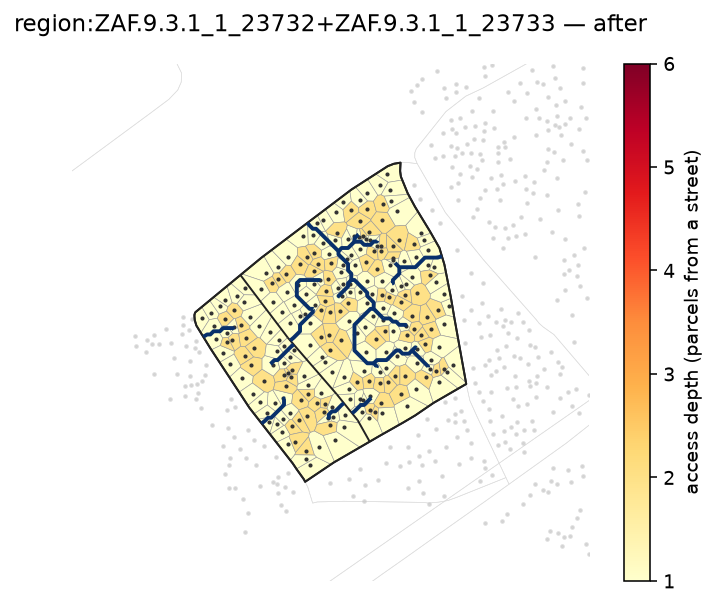
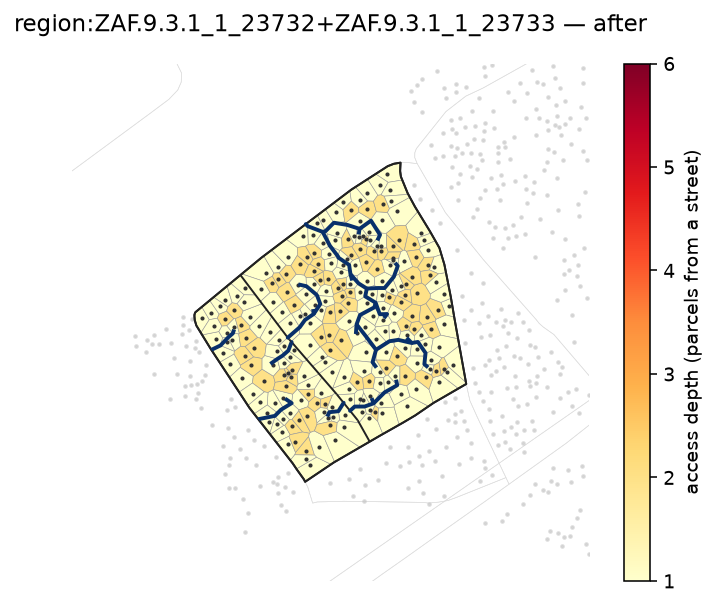
docs: regenerate clearance-repulsion gallery under chord_diag + 3-point default
Claude-Session: https://claude.ai/code/session_0125mCca6BQaTXiLZPMyFa8x

Changed region(s): [[0.3687, 0.3262, 0.6145, 0.7117], [0.2765, 0.5338, 0.338, 0.5931]]

diff --git a/examples/clearance-repulsion/README.md b/examples/clearance-repulsion/README.md
@@ -1,7 +1,8 @@
 # Clearance reblocker: one knob, one region, five repulsions
 
 `ClearanceReblocker` grows each new road as a least-cost path from the deepest remaining parcel
-to the existing street network on an 8-connected grid. The cost field blends a uniform term with
+to the existing street network on a pluggable routing substrate (`chord_diag` by default — the
+parcel-boundary graph plus all within-cell diagonals). The cost field blends a uniform term with
 a repulsion-from-buildings term:
 
 ```
@@ -70,17 +71,18 @@ a minute end-to-end for one small region.
 |---|---|---|---|---|---|
 | ![before](before.png) | ![s=-6](after_s-6.png) | ![s=-2](after_s-2.png) | ![s=0](after_s0.png) | ![s=+2](after_s+2.png) | ![s=+6](after_s+6.png) |
 
-_The s=-6 and s=-2 panels render identically: at this region's scale the cost field is near-uniform for both, below the res=1.5 grid's resolution to distinguish them._
-
 ## Metrics (actual run output)
+
+The routing substrate is `chord_diag` (the default winner from the substrate sweep) with 3-point
+edge-cost sampling (both endpoints plus the midpoint), not the older `res=1.5` search grid.
 
 | repulsion | roads | length_m | displaced | max_depth |
 |---:|---:|---:|---:|---:|
-| -6 | 22 | 328 | 71 | 2 |
-| -2 | 22 | 328 | 71 | 2 |
-| 0 | 22 | 327 | 68 | 2 |
-| +2 | 21 | 341 | 65 | 2 |
-| +6 | 21 | 389 | 59 | 2 |
+| -6 | 19 | 348 | 67 | 2 |
+| -2 | 18 | 337 | 64 | 2 |
+| 0 | 18 | 329 | 62 | 2 |
+| +2 | 17 | 344 | 58 | 2 |
+| +6 | 18 | 381 | 64 | 2 |
 
 (`roads`: road segments added. `length_m`: total road length. `displaced`: buildings within 3 m of
 a new road, from `displacement_count`. `max_depth`: worst remaining access depth after reblocking,
@@ -93,23 +95,22 @@ adding least-cost roads from the deepest remaining parcel until no parcel is mor
 from a street, regardless of `repulsion`. So the panels aren't a coverage comparison; they isolate
 what the knob actually changes: *how* each road gets there.
 
-**The knob trades displacement for length, monotonically at the extremes.** From `s=-6` to
-`s=+6`, `displaced` falls from 71 to 59 (roads pulled toward the max-clearance Voronoi ridges cross
-fewer building footprints) while `length_m` rises from 328 to 389 (hugging the gaps between
-buildings is less direct than a straight line, so the same coverage costs more road). The two most
-repulsion-averse settings (`s=-6, -2`) tie exactly (`71` displaced, `328` m) — at this region's
-scale the cost field is already close enough to uniform at both settings that the greedy search
-finds the same paths; the difference opens up moving toward the Voronoi-following end. `length_m`
-is monotone non-decreasing at the extremes but dips by 1 m at `s=0` (327, below `s=-2`'s 328)
-before rising — that's grid-scale noise from the `res=1.5` search grid, not a real reversal of the
-trend.
+**Displacement falls as repulsion rises, up to a point.** From `s=-6` to `s=+2`, `displaced` falls
+monotonically (67 -> 64 -> 62 -> 58) as roads are pulled toward the max-clearance Voronoi ridges and
+cross fewer building footprints. But at the most repulsive setting, `s=+6`, `displaced` jumps back
+up to 64: hugging the gap network on `chord_diag`'s sparser, straighter road candidates can route a
+path past one cluster of buildings only by threading closer to another, so the trend is not
+monotonic across the full range — the extremes aren't guaranteed to be the best or worst case on
+every substrate.
 
-**Road count drifts down slightly, not up.** `s=-6` and `s=+6` both need roads to reach every
-parcel, but the straighter paths at negative `s` are less efficient at reusing already-built road
-(more redundant crossings), so they end up needing one more segment (22 vs 21) despite being
-individually more direct — a second-order effect underneath the primary length/displacement trade.
+**Length and road count track the same non-monotonic shape.** `length_m` falls from `s=-6` to
+`s=0` (348 -> 337 -> 329) then rises through `s=+2` and `s=+6` (344 -> 381); `roads` falls from 19
+at `s=-6` to 17 at `s=+2`, then ticks back up to 18 at `s=+6`. All three metrics turn the corner at
+the same place (`s=+2`), consistent with a single underlying cause: past a point, following the
+clearance ridges more aggressively costs extra route length and an extra road segment without
+buying further displacement reduction on this region's `chord_diag` graph.
 
-In short: `repulsion` doesn't change *whether* the block gets reblocked to depth 2, it changes
-*how much building you cut through to get there* versus *how much extra road you lay to avoid it*
-— the same trade a real implementer faces between an aspirational straight-line plan and a
-buildable one that respects what's already standing.
+In short: `repulsion` doesn't change *whether* the block gets reblocked to depth 2, it changes *how
+much building you cut through to get there* versus *how much extra road you lay to avoid it* — and
+on the sparser `chord_diag` substrate that trade isn't perfectly monotone at the repulsion-seeking
+extreme, unlike the old dense-grid substrate where it was.
